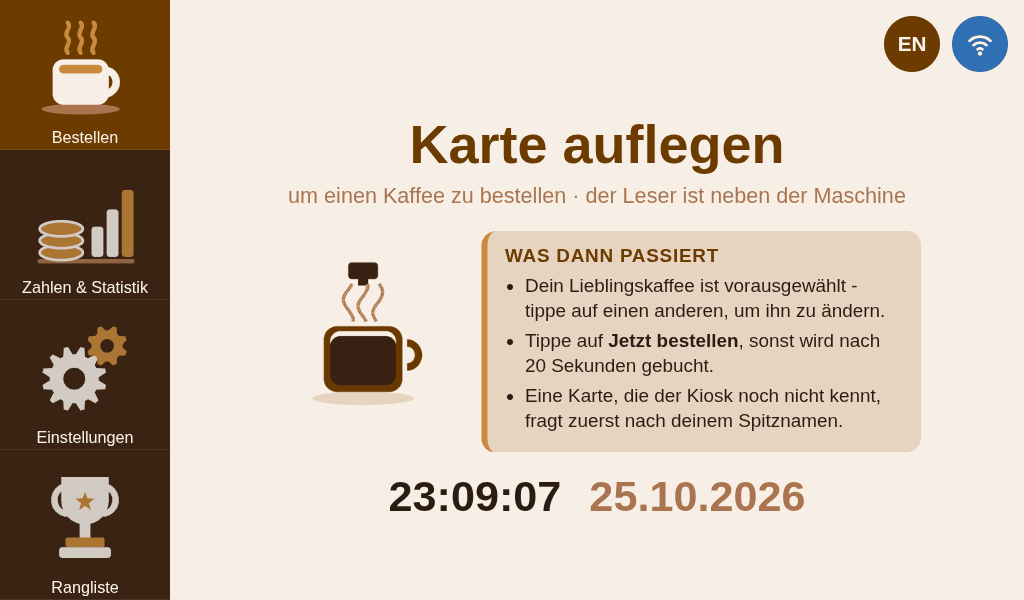
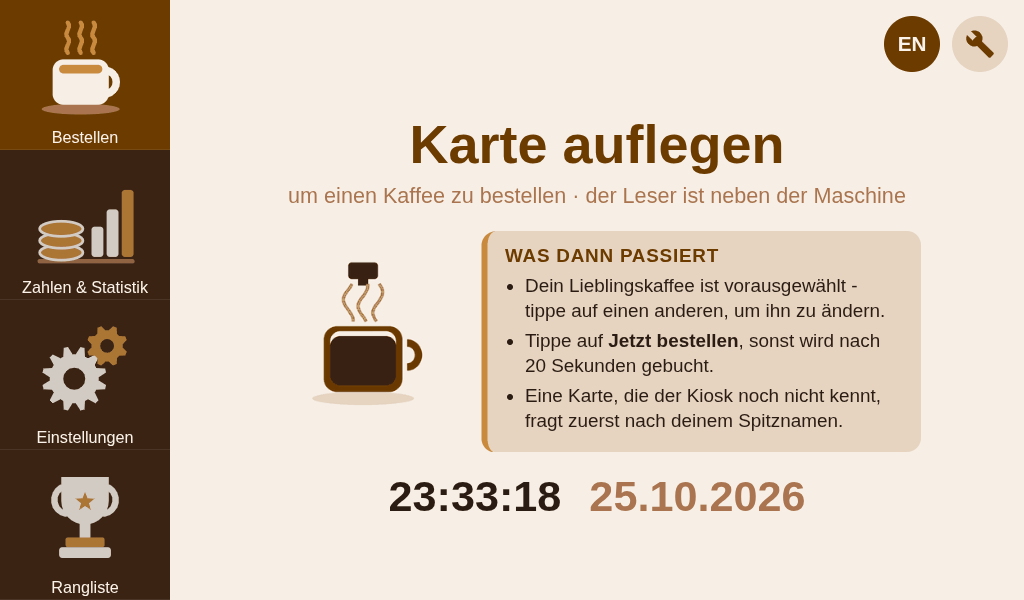
Refactor kiosk admin access terminology and visuals; update documentation and translations

Changed region(s): [[0.9062, 0.03, 1.0, 0.12], [0.4375, 0.81, 0.5625, 0.87]]

diff --git a/kiosk/templates/kiosk/panel.html b/kiosk/templates/kiosk/panel.html
@@ -1,9 +1,9 @@
 {% load static i18n l10n coffee_tags %}
 <div id="panel-state" data-panel-key="{{ panel_key }}" data-mode="{{ mode }}" hidden></div>
 {% if state == "wait_for_card" %}
-<button type="button" class="info-btn" title="{% translate "WLAN Settings" %}"
+<button type="button" class="info-btn admin-btn" title="{% translate "Admin access" %}" aria-label="{% translate "Admin access" %}"
         hx-get="{% url 'kiosk:qr_popup' %}" hx-target="#qr-modal-content" hx-swap="innerHTML"
-        hx-on:click="document.getElementById('qr-modal').classList.add('open')">{% include "icons/wifi.svg" %}</button>
+        hx-on:click="document.getElementById('qr-modal').classList.add('open')">{% include "icons/wrench.svg" %}</button>
 {% get_current_language as current_language %}
 {% if current_language == "de" %}
 <a class="info-btn lang-btn" href="{% url 'kiosk:language' %}" title="Switch to English" lang="en">EN</a>

diff --git a/static/kiosk/kiosk.css b/static/kiosk/kiosk.css
@@ -146,6 +146,9 @@ html, body.kiosk { overflow: hidden; }
 .rank-badge .icon { width: 1.5em; height: 1.5em; }  /* the ribbon takes a third of it */
 .info-btn .icon { width: 30px; height: 30px; vertical-align: 0; }
 /* The language button sits left of the WiFi one; labelled with the language it switches to. */
+/* Admin-only, so it must not look like something members should tap: no WiFi symbol (that
+   read as "connect here") and muted instead of the attention-grabbing blue. */
+.admin-btn { background: var(--cream-dark); color: var(--coffee); }
 .lang-btn { right: 84px; background: var(--coffee); text-decoration: none; font-weight: 700; font-size: 1.15rem; }
 
 /* Every logged-in screen (order/settings/info_pay/ranking) shares this structure so its

diff --git a/kiosk/templates/kiosk/_qr_popup.html b/kiosk/templates/kiosk/_qr_popup.html
@@ -1,7 +1,7 @@
 {% load i18n %}
 <div class="modal-card">
     <button type="button" class="modal-close" hx-on:click="document.getElementById('qr-modal').classList.remove('open')">✕</button>
-    <h1>{% translate "Setup &amp; network info" %}</h1>
-    <p>{% translate "Scan to join the WiFi or open the dashboard from a phone or PC." %}</p>
+    <h1>{% translate "Admin access" %}</h1>
+    <p>{% translate "Only for whoever looks after this coffee machine - you don't need any of this to get a coffee." %}</p>
     {% include "kiosk/_qr_row.html" %}
 </div>

diff --git a/kiosk/tests/test_panel.py b/kiosk/tests/test_panel.py
@@ -207,6 +207,6 @@ class KioskQrPopupTestCase(TestCase):
 
     def test_qr_popup_shows_qr_codes(self):
         response = self.client.get(reverse("kiosk:qr_popup"))
-        self.assertContains(response, "Setup &amp; network info")
+        self.assertContains(response, "Admin access")
         self.assertContains(response, "Join WiFi")
         self.assertContains(response, "<svg")

diff --git a/docs/MANUAL.de.md b/docs/MANUAL.de.md
@@ -199,8 +199,8 @@ keine angelegt ist, zeigt er *Einrichtung nötig* mit QR-Codes zu WLAN und Dashb
 ## 4. Der Kiosk
 
 Der Touchscreen hat vier Bereiche, links in der Leiste. Oben rechts sitzen zwei runde Knöpfe:
-**DE/EN** schaltet die Sprache des Kiosks um, der **WLAN-Knopf** zeigt die QR-Codes zum
-Einrichten.
+**DE/EN** schaltet die Sprache des Kiosks um, der **Schraubenschlüssel** ist der Admin-Zugang –
+für Mitglieder ist er nicht gedacht.
 
 Außer der Rangliste brauchen alle Bereiche eine Karte. Wer eine Karte auflegt, ist angemeldet,
 bis er fertig ist oder nach 20 Sekunden ohne Eingabe automatisch abgemeldet wird. Ein Tipp auf
@@ -272,12 +272,14 @@ und den **Schuldenpranger** – alle, die bis zum Vormonat noch etwas schulden.
 
 ![Schuldenpranger](pictures/manual/de/kiosk-ranking-pillory.png)
 
-### Einrichtung & Netzwerk
+### Admin-Zugang
 
-Der runde WLAN-Knopf oben rechts zeigt zwei QR-Codes: einen, um dem WLAN des Geräts
-beizutreten, und einen, der das Dashboard öffnet – der Touchscreen selbst hat ja keine Tastatur.
+Der runde Schraubenschlüssel oben rechts ist für die, die das Gerät betreuen: Er zeigt zwei
+QR-Codes, einen, um dem WLAN des Geräts beizutreten, und einen, der das Dashboard öffnet – der
+Touchscreen selbst hat ja keine Tastatur. Mitglieder brauchen ihn nicht; ihr Handy verknüpfen
+sie unter **Einstellungen**.
 
-![Einrichtung & Netzwerk](pictures/manual/de/kiosk-setup-popup.png)
+![Admin-Zugang](pictures/manual/de/kiosk-setup-popup.png)
 
 ### „Wir sind gleich wieder da“
 

diff --git a/docs/MANUAL.en.md b/docs/MANUAL.en.md
@@ -192,7 +192,8 @@ Before the kiosk takes orders it needs at least one **coffee sort** – until th
 ## 4. The kiosk
 
 The touchscreen has four sections, in the bar on the left. Two round buttons sit top right:
-**DE/EN** switches the kiosk's language, the **WiFi button** shows the QR codes for setting up.
+**DE/EN** switches the kiosk's language, the **wrench** is the admin access – it isn't meant
+for members.
 
 Apart from the ranking, every section needs a card. Holding up a card logs you in until you're
 done, or logs you out automatically after 20 seconds without input. Tapping a section in the
@@ -260,12 +261,13 @@ No card needed. **Next** pages through the all-time top 7, this month's top 7 an
 
 ![Deposit pillory](pictures/manual/en/kiosk-ranking-pillory.png)
 
-### Setup & network info
+### Admin access
 
-The round WiFi button top right shows two QR codes: one to join the device's WiFi, one that
-opens the dashboard – the touchscreen itself has no keyboard, after all.
+The round wrench top right is for whoever looks after the device: it shows two QR codes, one to
+join the device's WiFi and one that opens the dashboard – the touchscreen itself has no keyboard,
+after all. Members don't need it; they link their phone under **Settings**.
 
-![Setup & network info](pictures/manual/en/kiosk-setup-popup.png)
+![Admin access](pictures/manual/en/kiosk-setup-popup.png)
 
 ### "We'll be right back"
 
